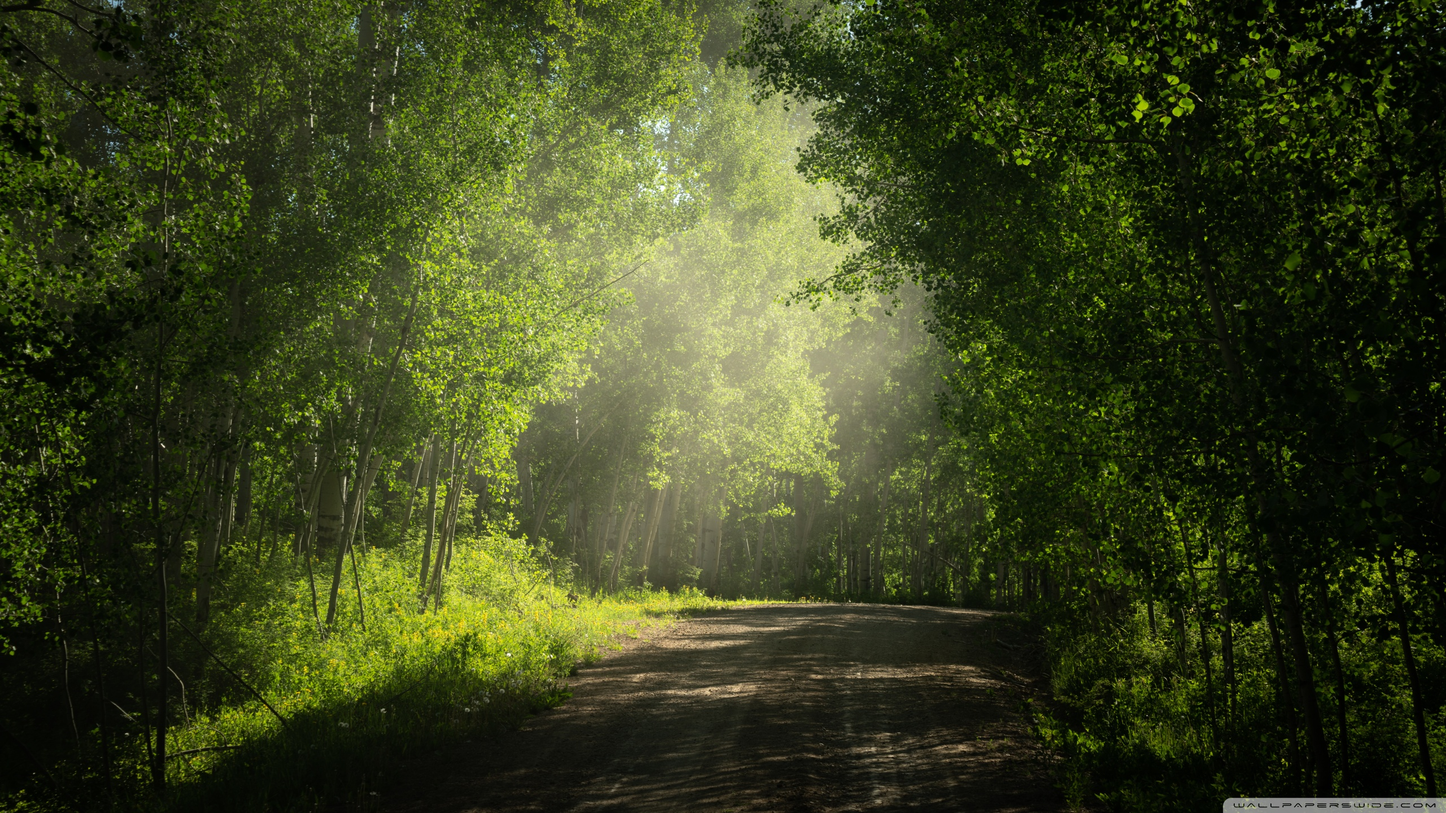
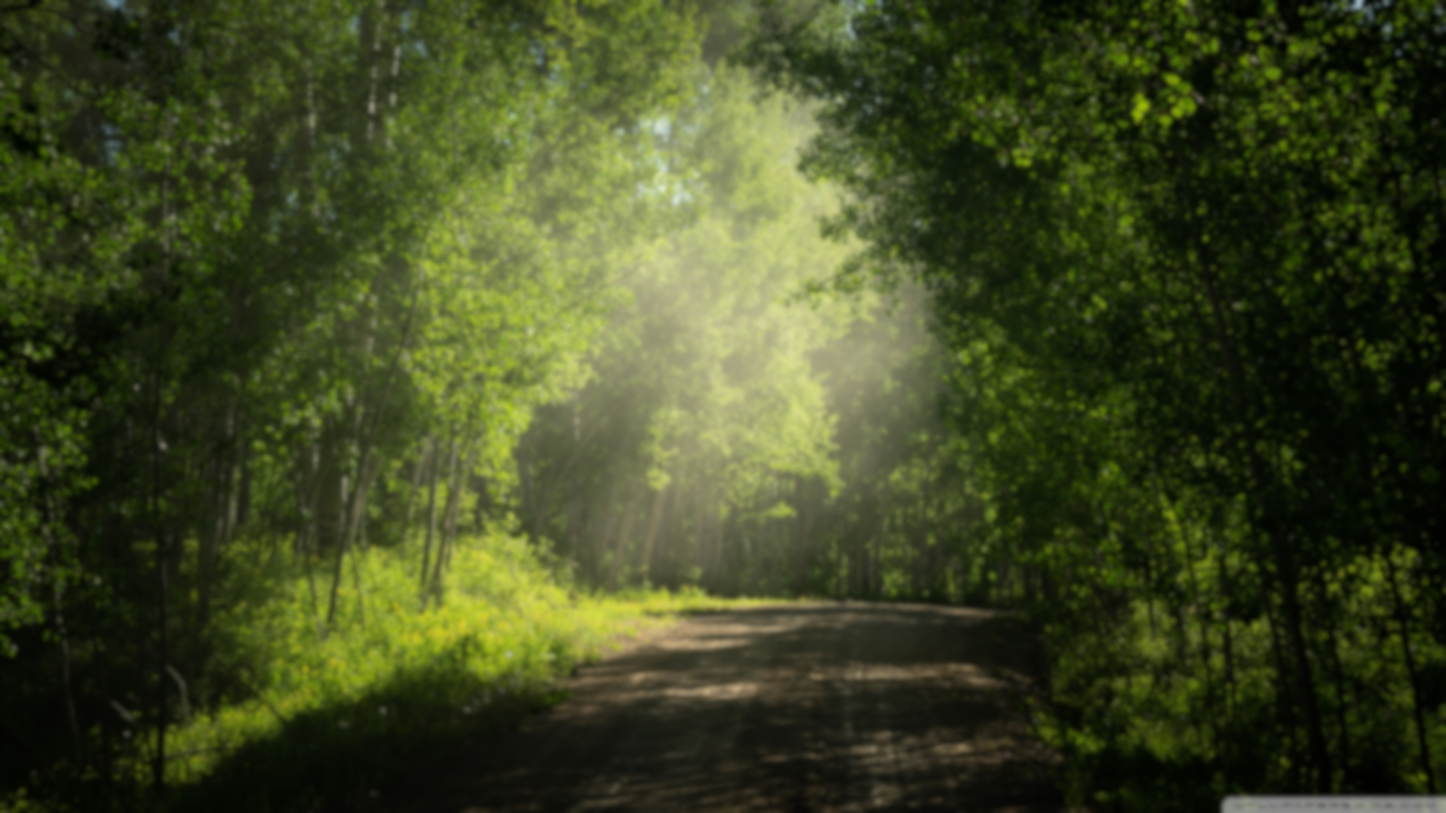
more small changes

diff --git a/Home.html b/Home.html
@@ -127,7 +127,7 @@
             margin-right: auto;
             width: 90% !important;
             height: auto !important;
-            border: 2vw solid #202225;
+            border: 2vw solid rgba(0,0,0,0);
             border-radius: 4.5vw;
             border-top-left-radius: 0rem;
         }
@@ -322,7 +322,7 @@
               <li class="carousel-indicator-base" data-target="#mainCarousel" data-slide-to="6"></li>
             </ol>
 
-            <div class="carousel-inner" style="background-color: #202225;">
+            <div class="carousel-inner" style="background: #202225 url(Resources/Images/aspens-2560x1440.jpg) no-repeat center;">
               <div class="carousel-item active">
                 <img class="image-adaptive-sizing" src="Resources/Images/Terra_Lobby_1.png" alt="Fifth slide">
                 <div class="carousel-caption d-none d-md-block">
@@ -379,8 +379,6 @@
                     <p class="carousel-subtitle">For lighthearted fun</p>
                   </div>
               </div>
-
-              
             </div>
             
             <a class="carousel-control-prev" href="#mainCarousel" role="button" data-slide="prev">
